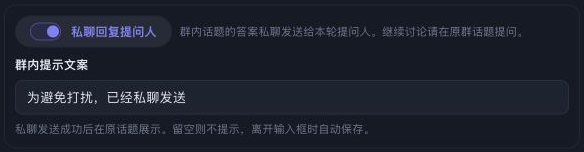
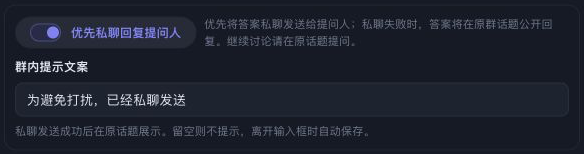
fix(oncall): 私聊投递失败时回原话题

diff --git a/test/cli-send-private-reply.test.ts b/test/cli-send-private-reply.test.ts
@@ -1,0 +1,67 @@
+import { mkdirSync, mkdtempSync, rmSync, writeFileSync } from 'node:fs';
+import { tmpdir } from 'node:os';
+import { join } from 'node:path';
+import { fileURLToPath } from 'node:url';
+import { describe, expect, it } from 'vitest';
+import { seedPersistedSessionRows } from './helpers/session-store-disk.js';
+import { spawnSyncTsScript } from './helpers/ts-runner.js';
+
+function run(fail: boolean, args: string[] = [], turnId = 'turn_a') {
+  const root = mkdtempSync(join(tmpdir(), 'botmux-private-cli-'));
+  const dataDir = join(root, 'data');
+  try {
+    mkdirSync(join(dataDir, 'roles', 'cli_test'), { recursive: true });
+    writeFileSync(join(dataDir, 'roles', 'cli_test', 'oc_test.meta.json'), JSON.stringify({
+      replyPrivately: true, privateReplyNotice: 'sent privately',
+    }));
+    mkdirSync(join(dataDir, '.botmux-cli-pids'), { recursive: true });
+    writeFileSync(join(dataDir, '.botmux-cli-pids', String(process.pid)), JSON.stringify({ sessionId: 'session', turnId }));
+    seedPersistedSessionRows(dataDir, 'cli_test', {
+      session: {
+        sessionId: 'session', larkAppId: 'cli_test', chatId: 'oc_test', chatType: 'group', scope: 'thread',
+        rootMessageId: 'om_topic', title: 'test', status: 'active', createdAt: new Date(0).toISOString(),
+        quoteTargetId: 'turn_b', quoteTargetSenderOpenId: 'ou_b',
+        replyTargets: { turn_a: { senderOpenId: 'ou_a', updatedAt: new Date(0).toISOString() } },
+      },
+    });
+    const result = spawnSyncTsScript(fileURLToPath(new URL('./fixtures/send-private-reply-capture.ts', import.meta.url)), [
+      'send', 'answer', '--session-id', 'session', '--no-mention', ...args,
+    ], {
+      env: { PATH: process.env.PATH, HOME: root, SESSION_DATA_DIR: dataDir, BOTS_CONFIG: join(root, 'bots.json'),
+        BOTMUX_SESSION_ID: 'session', TEST_PRIVATE_REPLY_FAIL: fail ? '1' : '0' },
+      encoding: 'utf8', timeout: 30_000,
+    });
+    const deliveries = String(result.stdout).split('\n').filter(line => line.startsWith('DELIVERY='))
+      .map(line => JSON.parse(line.slice('DELIVERY='.length)));
+    return { ...result, deliveries };
+  } finally { rmSync(root, { recursive: true, force: true }); }
+}
+
+describe('real CLI private delivery', () => {
+  it.each([false, true])('delivers the answer with fallback=%s', fail => {
+    const result = run(fail);
+    expect(result.status, String(result.stderr)).toBe(0);
+    expect(result.deliveries).toHaveLength(2);
+    const [dm, group] = result.deliveries;
+    expect(dm.body.receive_id).toBe('ou_a');
+    expect(dm.body.content).toContain('answer');
+    expect(group.url).toMatch(/\/im\/v1\/messages\/om_topic\/reply$/);
+    expect(group.body.reply_in_thread).toBe(true);
+    expect(group.body.content).toBe(fail ? dm.body.content : JSON.stringify({ text: 'sent privately' }));
+  });
+
+  it('returns an evicted turn to the topic without borrowing the last sender', () => {
+    const result = run(false, [], 'evicted_turn');
+    expect(result.status, String(result.stderr)).toBe(0);
+    expect(result.deliveries).toHaveLength(1);
+    expect(result.deliveries[0].url).toMatch(/\/im\/v1\/messages\/om_topic\/reply$/);
+    expect(result.deliveries[0].body.content).toContain('answer');
+  });
+
+  it.each([['--into', 'om_other'], ['--chat-id', 'oc_other']])('rejects destination override %s before delivery', (...args) => {
+    const result = run(false, args);
+    expect(result.status, String(result.stderr)).toBe(2);
+    expect(result.stderr).toContain('请移除 --into / --chat-id');
+    expect(result.deliveries).toEqual([]);
+  });
+});

diff --git a/test/session-reply-thread-anchor.test.ts b/test/session-reply-thread-anchor.test.ts
@@ -151,7 +151,7 @@ describe('sessionReply chat-scope chokepoint — shared fold-back anchoring', ()
     registerBot({ larkAppId: APP, larkAppSecret: 's', cliId: 'claude-code', allowedUsers: ['ou_o'] });
   });
 
-  it.each([false, true])('routes the actual daemon answer privately, failure=%s', async failure => {
+  it.each([false, true])('routes the actual daemon answer privately with group fallback, failure=%s', async failure => {
     const ds = seedSharedSession();
     ds.scope = 'thread';
     Object.assign(ds.session, {
@@ -166,8 +166,9 @@ describe('sessionReply chat-scope chokepoint — shared fold-back anchoring', ()
     if (failure) mocks.sendUserMessage.mockRejectedValueOnce(new Error('DM denied'));
     const send = sessionReply('om_topic', 'private answer', 'text', APP, 'turn_a');
     if (failure) {
-      await expect(send).rejects.toThrow('DM denied');
-      expect(mocks.replyMessage).not.toHaveBeenCalled();
+      expect(await send).toBe('om_reply');
+      expect(mocks.replyMessage).toHaveBeenCalledExactlyOnceWith(APP, 'om_topic', 'private answer',
+        'text', true, undefined, expect.anything());
     } else {
       expect(await send).toBe('om_private');
       expect(mocks.replyMessage).toHaveBeenCalledWith(APP, 'om_topic', 'sent privately',
@@ -175,6 +176,23 @@ describe('sessionReply chat-scope chokepoint — shared fold-back anchoring', ()
     }
     expect(mocks.sendUserMessage).toHaveBeenCalledWith(APP, 'ou_a', 'private answer', 'text', undefined);
     expect(mocks.sendMessage).not.toHaveBeenCalled();
+  });
+
+  it.each([undefined, 'om_command', 'evicted_turn'])('keeps an unregistered %s reply in its topic instead of messaging the last user', async turnId => {
+    const ds = seedSharedSession();
+    ds.scope = 'thread';
+    Object.assign(ds.session, {
+      larkAppId: APP, chatType: 'group', scope: 'thread', rootMessageId: 'om_topic',
+      quoteTargetId: 'turn_b', quoteTargetSenderOpenId: 'ou_b',
+      replyTargets: { turn_b: { senderOpenId: 'ou_b', updatedAt: NOW } },
+    });
+    activeSessions.clear();
+    activeSessions.set(sessionKey('om_topic', APP), ds);
+    writeRoleReplyPrivately(APP, CHAT, true);
+    expect(await sessionReply('om_topic', 'reply', 'text', APP, turnId)).toBe('om_reply');
+    expect(mocks.sendUserMessage).not.toHaveBeenCalled();
+    expect(mocks.replyMessage).toHaveBeenCalledExactlyOnceWith(APP, 'om_topic', 'reply',
+      'text', true, undefined, expect.anything());
   });
 
   it('repo-card-style send (interactive, NO turnId) threads into the shared topic, not top-level', async () => {

diff --git a/src/core/private-reply.ts b/src/core/private-reply.ts
@@ -7,27 +7,35 @@ import { logger } from '../utils/logger.js';
 // Reuse the group session and its existing per-turn sender record.
 type ReplySession = Pick<Session, 'sessionId' | 'larkAppId' | 'chatId' | 'chatType' | 'scope'
   | 'rootMessageId' | 'replyTargets' | 'currentReplyTarget' | 'quoteTargetId'
-  | 'quoteTargetSenderOpenId' | 'quoteTargetSenderIsBot'>;
+  | 'quoteTargetSenderOpenId' | 'quoteTargetSenderIsBot'> & {
+  turnReplyContexts?: Record<string, { replyTargetSenderIsBot?: boolean }>;
+};
 
 export function privateReplyEnabled(s: Pick<ReplySession, 'larkAppId' | 'chatId' | 'chatType' | 'scope'>): boolean {
   return s.chatType === 'group' && s.scope !== 'chat' && !!s.larkAppId
     && readRoleReplyPrivately(s.larkAppId, s.chatId);
 }
 
-/** Undefined means ordinary delivery. Errors must propagate: never fall back to a public answer. */
+/** Undefined resumes the existing group reply path, including when private delivery fails. */
 export async function sendPrivateReply(
   s: ReplySession, turnId: string | undefined, content: string, msgType = 'text', uuid?: string,
 ): Promise<string | undefined> {
-  if (!privateReplyEnabled(s)) return undefined;
-  const sender = turnId ? pickTurnReplyTarget(s, turnId)?.senderOpenId : undefined;
-  if (!sender?.startsWith('ou_') || (s.quoteTargetId === turnId && s.quoteTargetSenderIsBot)) {
-    throw new Error('Private reply requires the questioner of the exact turn');
+  if (!privateReplyEnabled(s) || !turnId) return undefined;
+  const sender = pickTurnReplyTarget(s, turnId)?.senderOpenId;
+  const senderIsBot = s.turnReplyContexts?.[turnId]?.replyTargetSenderIsBot
+    ?? (s.quoteTargetId === turnId && s.quoteTargetSenderIsBot);
+  if (!sender?.startsWith('ou_') || senderIsBot) return undefined;
+  let messageId: string;
+  try {
+    messageId = await sendUserMessage(s.larkAppId!, sender, content, msgType, uuid);
+  } catch (err) {
+    logger.warn(`[private-reply] delivery failed for turn ${turnId}; using group reply: ${String(err)}`);
+    return undefined;
   }
-  const messageId = await sendUserMessage(s.larkAppId!, sender, content, msgType, uuid);
   const notice = readRolePrivateReplyNotice(s.larkAppId!, s.chatId);
   if (notice) {
     try {
-      // Only the configured text is public. A notice failure must not retry an already delivered answer.
+      // A notice failure must not retry or publicly resend an already delivered answer.
       await replyMessage(s.larkAppId!, s.rootMessageId, notice, 'text', true,
         undefined, undefined, { suppressHook: true });
     } catch (err) {

diff --git a/test/private-reply.test.ts b/test/private-reply.test.ts
@@ -78,11 +78,22 @@ describe('private delivery with the existing group session', () => {
     expect(s).toEqual(original);
   });
 
-  it.each([undefined, 'evicted_turn'])('refuses missing sender for %s instead of borrowing the last user', async turn => {
+  it.each([undefined, 'evicted_turn'])('uses ordinary delivery for %s instead of borrowing the last user', async turn => {
     writeRoleReplyPrivately(APP, GROUP, true);
-    await expect(sendPrivateReply(session(), turn, 'secret')).rejects.toThrow('exact turn');
+    expect(await sendPrivateReply(session(), turn, 'answer')).toBeUndefined();
     expect(sendUserMessage).not.toHaveBeenCalled();
     expect(replyMessage).not.toHaveBeenCalled();
+  });
+
+  it.each(['turn_a', 'turn_b'])('keeps a bot-originated %s in the group even after a later human turn', async turn => {
+    writeRoleReplyPrivately(APP, GROUP, true);
+    const s = session();
+    s.turnReplyContexts = {
+      turn_a: { target: { mode: 'thread', rootMessageId: s.rootMessageId }, replyTargetSenderIsBot: true },
+    };
+    s.quoteTargetSenderIsBot = turn === 'turn_b';
+    expect(await sendPrivateReply(s, turn, 'answer')).toBeUndefined();
+    expect(sendUserMessage).not.toHaveBeenCalled();
   });
 
   it('only posts the configured notice after private delivery succeeds', async () => {
@@ -95,11 +106,11 @@ describe('private delivery with the existing group session', () => {
       .toBeLessThan(vi.mocked(replyMessage).mock.invocationCallOrder[0]);
   });
 
-  it('never posts the answer or a success notice after a private send failure', async () => {
+  it.each(['permission denied', 'network timeout'])('resumes ordinary delivery without a success notice after %s', async error => {
     writeRoleReplyPrivately(APP, GROUP, true);
     writeRolePrivateReplyNotice(APP, GROUP, 'sent');
-    vi.mocked(sendUserMessage).mockRejectedValueOnce(new Error('permission denied'));
-    await expect(sendPrivateReply(session(), 'turn_a', 'secret')).rejects.toThrow('permission denied');
+    vi.mocked(sendUserMessage).mockRejectedValueOnce(new Error(error));
+    expect(await sendPrivateReply(session(), 'turn_a', 'answer')).toBeUndefined();
     expect(replyMessage).not.toHaveBeenCalled();
   });
 

diff --git a/src/dashboard/web/i18n.ts b/src/dashboard/web/i18n.ts
@@ -2996,8 +2996,8 @@ const zh = {
   'roles.injectModeEvery': '每轮注入（默认）',
   'roles.injectModeOnce': '仅首轮注入一次',
   'roles.injectModeHint': '「仅一次」只在会话开始/重建时注入角色，之后不再重复，省 token；改动即时保存',
-  'roles.replyPrivately': '私聊回复提问人',
-  'roles.replyPrivatelyHint': '群内话题的答案私聊发送给本轮提问人。继续讨论请在原群话题提问。',
+  'roles.replyPrivately': '优先私聊回复提问人',
+  'roles.replyPrivatelyHint': '优先将答案私聊发送给提问人；私聊失败时，答案将在原群话题公开回复。继续讨论请在原话题提问。',
   'roles.privateReplyNotice': '群内提示文案',
   'roles.privateReplyNoticePlaceholder': '为避免打扰，已经私聊发送',
   'roles.privateReplyNoticeHint': '私聊发送成功后在原话题展示。留空则不提示，离开输入框时自动保存。',
@@ -6219,8 +6219,8 @@ const en: Record<keyof typeof zh, string> = {
   'roles.injectModeEvery': 'Every turn (default)',
   'roles.injectModeOnce': 'Only once (first turn)',
   'roles.injectModeHint': '"Only once" injects the role at session start/rebuild and never re-sends it, saving tokens; saved instantly on change',
-  'roles.replyPrivately': 'Reply privately to the requester',
-  'roles.replyPrivatelyHint': 'Send topic answers privately to the questioner. Continue the discussion in the original group topic.',
+  'roles.replyPrivately': 'Prefer private replies to the requester',
+  'roles.replyPrivatelyHint': 'Prefer private replies to the questioner. If private delivery fails, the answer is posted publicly in the original group topic. Continue the discussion there.',
   'roles.privateReplyNotice': 'Group notice',
   'roles.privateReplyNoticePlaceholder': 'To avoid disturbing the group, the reply has been sent privately.',
   'roles.privateReplyNoticeHint': 'Posted in the original topic after successful private delivery. Leave blank for no notice. Saves on blur.',

diff --git a/test/fixtures/send-private-reply-capture.ts b/test/fixtures/send-private-reply-capture.ts
@@ -1,0 +1,22 @@
+import { defaultHttpInstance } from '@larksuiteoapi/node-sdk';
+import { registerBot } from '../../src/bot-registry.js';
+
+registerBot({ larkAppId: 'cli_test', larkAppSecret: 'test', cliId: 'claude-code', allowedUsers: [] });
+// Exercise the real CLI and Lark client; no request leaves this process.
+(defaultHttpInstance as any).defaults.adapter = async (config: any) => {
+  const url = config.url;
+  let data;
+  if (url.includes('/auth/')) data = { code: 0, tenant_access_token: 'test-token', expire: 7200 };
+  else if (url.endsWith('/im/v1/messages') || url.endsWith('/reply')) {
+    const body = JSON.parse(config.data);
+    const privateSend = url.endsWith('/im/v1/messages');
+    console.log('DELIVERY=' + JSON.stringify({ privateSend, url, body }));
+    data = privateSend && process.env.TEST_PRIVATE_REPLY_FAIL === '1'
+      ? { code: 230013, msg: 'private delivery denied' }
+      : { code: 0, data: { message_id: privateSend ? 'om_private' : 'om_group' } };
+  } else if (url.includes('/im/v1/chats/')) data = { code: 0, data: { chat_mode: 'topic', chat_type: 'private' } };
+  else throw new Error('Unexpected HTTP request: ' + url);
+  return { data, status: 200, statusText: 'OK', headers: {}, config };
+};
+process.argv = [process.execPath, './src/cli.ts', ...process.argv.slice(2)];
+await import('../../src/cli.js');

diff --git a/src/cli.ts b/src/cli.ts
@@ -3808,10 +3808,11 @@ interface SessionData {
   /** Per-turn reply targets（见 Session.replyTargets in types.ts）——排队/并发轮次各自的回复锚点。 */
   replyTargets?: Record<string, { rootMessageId?: string; updatedAt: string; quoteOnly?: boolean; substitute?: boolean; senderOpenId?: string; participants?: import('./types.js').TurnParticipant[] }>;
   /** Frozen per-turn reply contexts（见 Session.turnReplyContexts in types.ts）。
-   *  `botmux send` 只读其中的 `inThread`：判断本轮 quote 目标当初是否从**顶层**
+   *  `botmux send` 读取发送人类型，并用 `inThread` 判断 quote 目标当初是否从**顶层**
    *  进来，据此拦住「顶层 @ 之后那条消息才被开成话题」时 quote 把回复带进话题。 */
   turnReplyContexts?: Record<string, {
     target?: { mode?: string; chatId?: string; rootMessageId?: string };
+    replyTargetSenderIsBot?: boolean;
     inThread?: boolean;
     replyTargetSenderOpenId?: string;
     replyTargetSenderIsBot?: boolean;

diff --git a/src/daemon.ts b/src/daemon.ts
@@ -3949,7 +3949,7 @@ async function sessionReply(
   }
   if (ds) {
     const privateMessageId = await sendPrivateReply(ds.session,
-      turnId ?? ds.session.quoteTargetId, content, msgType, opts?.uuid);
+      turnId, content, msgType, opts?.uuid);
     if (privateMessageId !== undefined) return privateMessageId;
   }
   const hookContext = ds ? {
